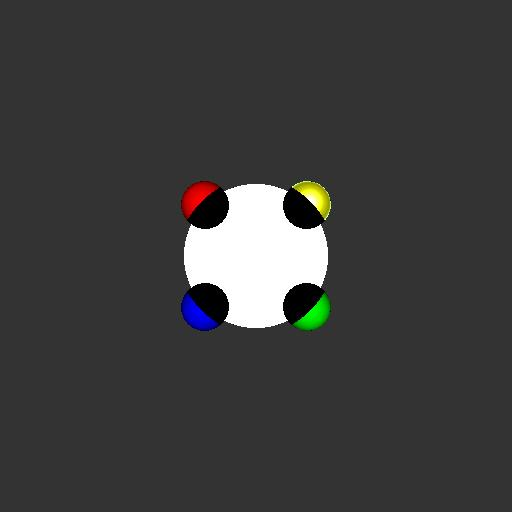
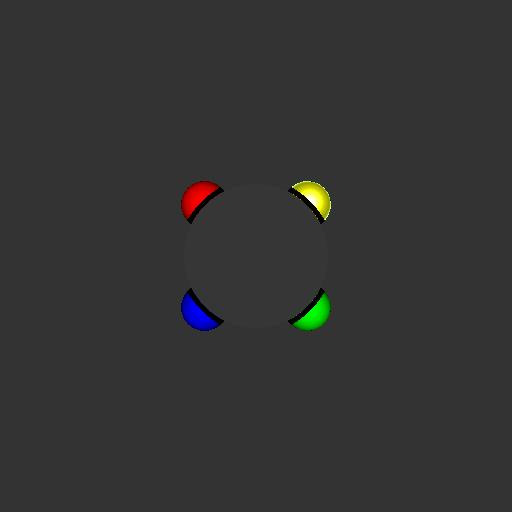
Refraction broken, but looks better.

Changed region(s): [[0.3438, 0.3438, 0.6562, 0.6562]]

diff --git a/src/main/java/edu/byu/cs455/Main.java b/src/main/java/edu/byu/cs455/Main.java
@@ -27,17 +27,17 @@ public class Main
         Light light;
         Scene scene;
 
-//        spheres = new ArrayList<>();
-//        triangles = new ArrayList<>();
-//        spheres.add(new Sphere(new Vector(0.35, 0.0, -0.1), 0.05, new Diffuse(new Color(1.0f, 1.0f, 1.0f), new Color(1.0f, 1.0f, 1.0f), 4)));
-//        spheres.add(new Sphere(new Vector(0.2, 0.0, -0.1), 0.075, new Diffuse(new Color(1.0f, 0.0f, 0.0f), new Color(1.0f, 0.5f, 0.5f), 32)));
-//        spheres.add(new Sphere(new Vector(-0.6, 0.0, 0.0), 0.3, new Diffuse(new Color(0.0f, 1.0f, 0.0f), new Color(0.5f, 1.0f, 0.5f), 32)));
-//        triangles.add(new Triangle(new Vector(0.3, -0.3, -0.4), new Vector(0.0, 0.3, -0.1), new Vector(-0.3, -0.3, 0.2), new Diffuse(new Color(0.0f, 0.0f, 1.0f), new Color(1.0f, 1.0f, 1.0f), 32)));
-//        triangles.add(new Triangle(new Vector(-0.2, 0.1, 0.1), new Vector(-0.2, -0.5, 0.2), new Vector(-0.2, 0.1, -0.3), new Diffuse(new Color(1.0f, 1.0f, 0.0f), new Color(1.0f, 1.0f, 1.0f), 4)));
-//        cameraSettings = new CameraSettings(new Vector(0.0, 0.0, 0.0), new Vector(0.0, 0.0, 1.0), new Vector(0.0, 1.0, 0.0), 28);
-//        light = new Light(new Vector(1.0, 0.0, 0.0), new Color(1.0f, 1.0f, 1.0f), new Color(0.1f, 0.1f, 0.1f), new Color(0.2f, 0.2f, 0.2f));
-//        scene = new Scene(spheres, triangles, cameraSettings, light);
-//        scene.rayTraceToFile(args[0]);
+        spheres = new ArrayList<>();
+        triangles = new ArrayList<>();
+        spheres.add(new Sphere(new Vector(0.35, 0.0, -0.1), 0.05, new Diffuse(new Color(1.0f, 1.0f, 1.0f), new Color(1.0f, 1.0f, 1.0f), 4)));
+        spheres.add(new Sphere(new Vector(0.2, 0.0, -0.1), 0.075, new Diffuse(new Color(1.0f, 0.0f, 0.0f), new Color(1.0f, 0.5f, 0.5f), 32)));
+        spheres.add(new Sphere(new Vector(-0.6, 0.0, 0.0), 0.3, new Diffuse(new Color(0.0f, 1.0f, 0.0f), new Color(0.5f, 1.0f, 0.5f), 32)));
+        triangles.add(new Triangle(new Vector(0.3, -0.3, -0.4), new Vector(0.0, 0.3, -0.1), new Vector(-0.3, -0.3, 0.2), new Diffuse(new Color(0.0f, 0.0f, 1.0f), new Color(1.0f, 1.0f, 1.0f), 32)));
+        triangles.add(new Triangle(new Vector(-0.2, 0.1, 0.1), new Vector(-0.2, -0.5, 0.2), new Vector(-0.2, 0.1, -0.3), new Diffuse(new Color(1.0f, 1.0f, 0.0f), new Color(1.0f, 1.0f, 1.0f), 4)));
+        cameraSettings = new CameraSettings(new Vector(0.0, 0.0, 0.0), new Vector(0.0, 0.0, 1.0), new Vector(0.0, 1.0, 0.0), 28);
+        light = new Light(new Vector(1.0, 0.0, 0.0), new Color(1.0f, 1.0f, 1.0f), new Color(0.1f, 0.1f, 0.1f), new Color(0.2f, 0.2f, 0.2f));
+        scene = new Scene(spheres, triangles, cameraSettings, light);
+        scene.rayTraceToFile(args[0]);
 
         spheres = new ArrayList<>();
         triangles = new ArrayList<>();
@@ -49,16 +49,17 @@ public class Main
         scene = new Scene(spheres, triangles, cameraSettings, light);
         scene.rayTraceToFile(args[1]);
 
-//        spheres = new ArrayList<>();
-//        triangles = new ArrayList<>();
+        spheres = new ArrayList<>();
+        triangles = new ArrayList<>();
 //        spheres.add(new Sphere(new Vector(0.0, 0.0, 0.0), 0.2322, new Refractive(new Color(1.0f, 1.0f, 1.0f), 1.333)));
-//        spheres.add(new Sphere(new Vector(0.25, 0.25, -0.6), 0.1161, new Diffuse(new Color(1.0f, 1.0f, 0.0f), new Color(0.5f, 1.0f, 0.5f), 4)));
-//        spheres.add(new Sphere(new Vector(-0.25, 0.25, -0.6), 0.1161, new Diffuse(new Color(1.0f, 0.0f, 0.0f), new Color(0.0f, 0.0f, 0.0f), 4)));
-//        spheres.add(new Sphere(new Vector(-0.25, -0.25, -0.6), 0.1161, new Diffuse(new Color(0.0f, 0.0f, 1.0f), new Color(0.0f, 0.0f, 0.0f), 4)));
-//        spheres.add(new Sphere(new Vector(0.25, -0.25, -0.6), 0.1161, new Diffuse(new Color(0.0f, 1.0f, 0.0f), new Color(0.0f, 0.0f, 0.0f), 4)));
-//        cameraSettings = new CameraSettings(new Vector(0.0, 0.0, 0.0), new Vector(0.0, 0.0, 1.2), new Vector(0.0, 1.0, 0.0), 35);
-//        light = new Light(new Vector(0.0, 0.0, 1.0), new Color(1.0f, 1.0f, 1.0f), new Color(0.0f, 0.0f, 0.0f), new Color(0.2f, 0.2f, 0.2f));
-//        scene = new Scene(spheres, triangles, cameraSettings, light);
-//        scene.rayTraceToFile(args[2]);
+        spheres.add(new Sphere(new Vector(0.0, 0.0, 0.0), 0.2322, new Reflective(new Color(1.0f, 1.0f, 1.0f))));
+        spheres.add(new Sphere(new Vector(0.25, 0.25, -0.6), 0.1161, new Diffuse(new Color(1.0f, 1.0f, 0.0f), new Color(0.5f, 1.0f, 0.5f), 4)));
+        spheres.add(new Sphere(new Vector(-0.25, 0.25, -0.6), 0.1161, new Diffuse(new Color(1.0f, 0.0f, 0.0f), new Color(0.0f, 0.0f, 0.0f), 4)));
+        spheres.add(new Sphere(new Vector(-0.25, -0.25, -0.6), 0.1161, new Diffuse(new Color(0.0f, 0.0f, 1.0f), new Color(0.0f, 0.0f, 0.0f), 4)));
+        spheres.add(new Sphere(new Vector(0.25, -0.25, -0.6), 0.1161, new Diffuse(new Color(0.0f, 1.0f, 0.0f), new Color(0.0f, 0.0f, 0.0f), 4)));
+        cameraSettings = new CameraSettings(new Vector(0.0, 0.0, 0.0), new Vector(0.0, 0.0, 1.2), new Vector(0.0, 1.0, 0.0), 35);
+        light = new Light(new Vector(0.0, 0.0, 1.0), new Color(1.0f, 1.0f, 1.0f), new Color(0.01f, 0.01f, 0.01f), new Color(0.2f, 0.2f, 0.2f));
+        scene = new Scene(spheres, triangles, cameraSettings, light);
+        scene.rayTraceToFile(args[2]);
     }
 }
